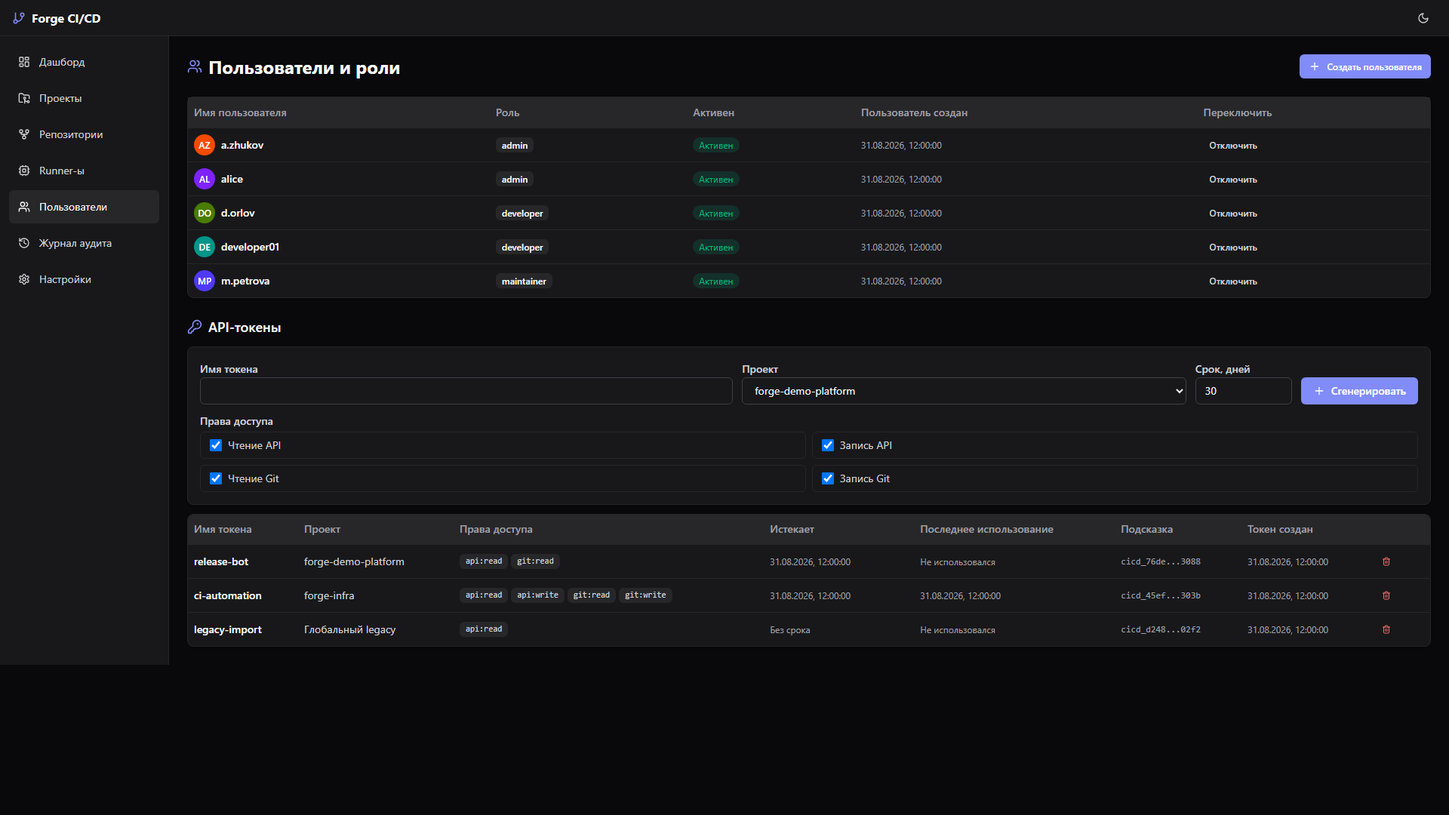
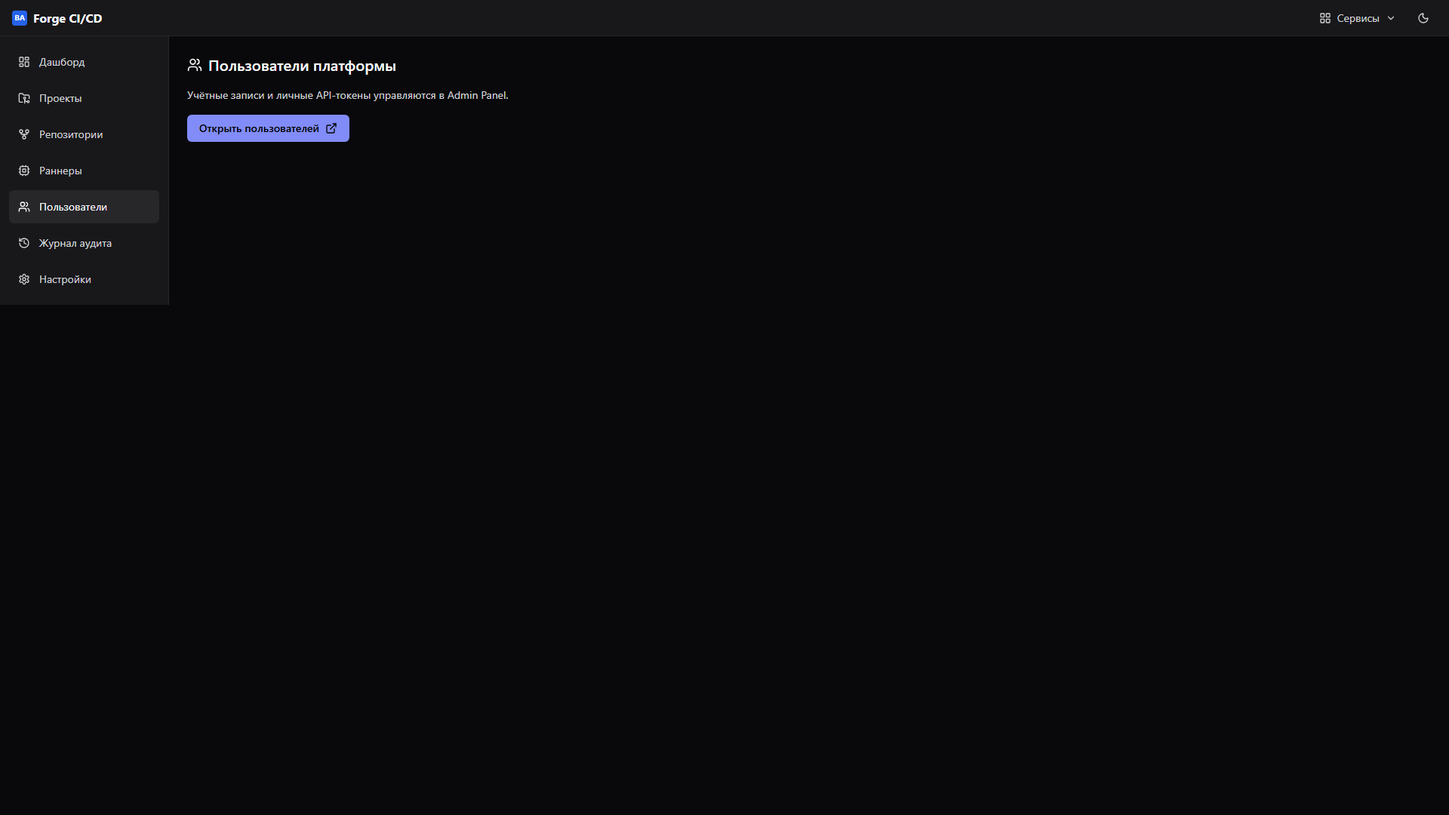
fix: align membership guidance with Central Auth UI

diff --git a/frontend/e2e/accessibility.spec.ts b/frontend/e2e/accessibility.spec.ts
@@ -68,7 +68,6 @@ test.describe('accessibility smoke', () => {
       { name: 'Settings', path: '/settings', ready: page => page.getByText('CICD_RUNNER_REGISTRATION_TOKEN').first(), shell: true },
       { name: 'Runners', path: '/runners', ready: page => page.getByRole('row', { name: /docker-runner-01/ }), shell: true },
       { name: 'Project secrets', path: `/projects/${evidence.project.id}/secrets`, ready: page => page.getByText('DEPLOY_TOKEN').first(), shell: true },
-      { name: 'Project members', path: `/projects/${evidence.project.id}/members`, ready: page => page.getByRole('row', { name: /a\.zhukov/ }), shell: true },
       { name: 'Artifacts', path: `/jobs/${evidence.job.id}/artifacts`, ready: page => page.getByText(expectedArtifactName).first(), shell: true },
       { name: 'Environments', path: `/projects/${evidence.project.id}/environments`, ready: page => page.getByText('staging').first(), shell: true },
       {
@@ -80,7 +79,7 @@ test.describe('accessibility smoke', () => {
       { name: 'Webhooks', path: `/projects/${evidence.project.id}/webhooks`, ready: page => page.getByRole('heading', { name: 'История доставок' }), shell: true },
       { name: 'Reports', path: `/projects/${evidence.project.id}/reports`, ready: page => page.getByText('Доля успехов').first(), shell: true },
       { name: 'Audit log', path: '/audit-log', ready: page => page.getByRole('heading', { name: /Журнал аудита|Audit log/ }), shell: true },
-      { name: 'Users', path: '/users', ready: page => page.getByRole('row', { name: /a\.zhukov/ }), shell: true },
+      { name: 'Users', path: '/users', ready: page => page.getByRole('heading', { name: 'Пользователи платформы' }), shell: true },
       { name: 'Login', path: '/login', ready: page => page.getByRole('heading', { name: 'Вход в Forge' }) },
     ]
 

diff --git a/frontend/src/api/hooks.ts b/frontend/src/api/hooks.ts
@@ -31,8 +31,6 @@ import type {
   Pipeline,
   PipelineDetail,
   Project,
-  ProjectMembership,
-  ProjectRole,
   ProjectReport,
   PullRequest,
   PullRequestAction,
@@ -400,7 +398,6 @@ const PLATFORM_KEYS = {
   auditLog: ['audit-log'] as const,
   users: ['users'] as const,
   tokens: ['api-tokens'] as const,
-  projectMemberships: (projectId: string) => ['project-memberships', projectId] as const,
 }
 
 function browserNotificationStreamEnabled(): boolean {
@@ -425,32 +422,6 @@ export function useDeleteRunner() {
   return useMutation({
     mutationFn: (id: string) => api<{ deleted: string }>(`/runners/${id}`, { method: 'DELETE' }),
     onSuccess: () => qc.invalidateQueries({ queryKey: PLATFORM_KEYS.runners }),
-  })
-}
-
-export function useProjectMemberships(projectId: string | undefined) {
-  return useQuery({
-    queryKey: PLATFORM_KEYS.projectMemberships(projectId ?? ''),
-    queryFn: () => api<ProjectMembership[]>(`/projects/${projectId}/memberships`),
-    enabled: Boolean(projectId),
-  })
-}
-
-export function useUpsertProjectMembership(projectId: string | undefined) {
-  const qc = useQueryClient()
-  return useMutation({
-    mutationFn: (input: { user_id: string; role: ProjectRole }) =>
-      api<ProjectMembership>(`/projects/${projectId}/memberships`, { method: 'POST', body: JSON.stringify(input) }),
-    onSuccess: () => qc.invalidateQueries({ queryKey: PLATFORM_KEYS.projectMemberships(projectId ?? '') }),
-  })
-}
-
-export function useDeleteProjectMembership(projectId: string | undefined) {
-  const qc = useQueryClient()
-  return useMutation({
-    mutationFn: (userId: string) =>
-      api<{ deleted: string; project_id: string }>(`/projects/${projectId}/memberships/${userId}`, { method: 'DELETE' }),
-    onSuccess: () => qc.invalidateQueries({ queryKey: PLATFORM_KEYS.projectMemberships(projectId ?? '') }),
   })
 }
 

diff --git a/frontend/src/app/router.test.tsx b/frontend/src/app/router.test.tsx
@@ -99,7 +99,6 @@ const routeCases = [
   { entry: '/settings', marker: 'CICD_RUNNER_REGISTRATION_TOKEN' },
   { entry: '/runners', marker: 'linux-runner-1' },
   { entry: `/projects/${projectId}/secrets`, marker: 'DEPLOY_TOKEN' },
-  { entry: `/projects/${projectId}/members`, marker: 'forge-api' },
   { entry: `/jobs/${jobId}/artifacts`, marker: 'app.tar.gz' },
   { entry: `/projects/${projectId}/environments`, marker: 'https://prod.example.com' },
   { entry: `/projects/${projectId}/schedules`, marker: '0 4 * * 1' },
@@ -122,6 +121,12 @@ describe('app router smoke', () => {
   it.each(routeCases)('renders $entry', async ({ entry, marker }) => {
     renderRoute(entry)
     await expectText(marker)
+  })
+
+  it('redirects an old project-members link to Projects', async () => {
+    const router = renderRoute(`/projects/${projectId}/members`)
+    await waitFor(() => expect(router.state.location.pathname).toBe('/projects'))
+    await expectText('forge-api')
   })
 })
 
@@ -146,6 +151,7 @@ function renderRoute(entry: string) {
       </ThemeProvider>
     </QueryClientProvider>,
   )
+  return router
 }
 
 function installLocalStorage() {

diff --git a/frontend/src/app/router.tsx b/frontend/src/app/router.tsx
@@ -51,6 +51,7 @@ export const appRoutes = [
       { path: '/settings', element: withSuspense(<SettingsPage />) },
       { path: '/runners', element: withSuspense(<RunnersPage />) },
       { path: '/projects/:projectId/secrets', element: withSuspense(<SecretsPage />) },
+      // Preserve old bookmarks; membership mutations are unavailable in Central Auth mode.
       { path: '/projects/:projectId/members', element: <Navigate to="/projects" replace /> },
       { path: '/jobs/:jobId/artifacts', element: withSuspense(<ArtifactsPage />) },
       { path: '/projects/:projectId/environments', element: withSuspense(<EnvironmentsPage />) },

diff --git a/frontend/src/api/types.ts b/frontend/src/api/types.ts
@@ -309,7 +309,6 @@ export interface AuditEvent {
 }
 
 export type UserRole = 'admin' | 'maintainer' | 'developer' | 'viewer'
-export type ProjectRole = 'maintainer' | 'developer' | 'viewer'
 
 export interface User {
   id: string
@@ -350,5 +349,3 @@ export interface CreateApiTokenInput {
   scopes?: string[]
   expires_in_days?: number
 }
-
-export type ProjectMembership = components['schemas']['ProjectMembership']

diff --git a/scripts/verify_docs.py b/scripts/verify_docs.py
@@ -592,9 +592,8 @@ def normalize_frontend_route(path: str) -> str:
     return re.sub(r":[A-Za-z_][A-Za-z0-9_]*", ":param", path.split("?", 1)[0])
 
 
-# Auth screens carry no product-surface evidence and are excluded from the
-# screenshot manifest by the desktop-only README evidence standard.
-MANIFEST_EXEMPT_ROUTES = {"/login", "/sso/callback", "/register"}
+# Auth screens and redirect-only legacy links have no distinct product surface.
+MANIFEST_EXEMPT_ROUTES = {"/login", "/sso/callback", "/register", "/projects/:param/members"}
 
 
 def frontend_route_paths() -> set[str]:

diff --git a/docs/USER_GUIDE.md b/docs/USER_GUIDE.md
@@ -20,23 +20,25 @@ Forge CI/CD - self-hosted control plane для Git-репозиториев и C
 | Секреты проекта | **Current verified** | AES-256-GCM at rest; embedded runner передаёт их в env и маскирует значения в stdout/stderr logs. |
 | Окружения и записи деплоев | **Current verified** | Метаданные окружения и история деплоев; выполнение деплоя определяется job. |
 | Отчёты и аудит | **Current verified** | Сводка по проекту и последние 200 событий аудита. |
-| Пользователи, участники проектов и API-токены | **Current verified MVP** | Хранение, argon2id credentials, session-bound access JWT, sessions, PAT enforcement и project memberships при `CICD_AUTH_SECRET`. |
+| Пользователи и личные токены | **Current verified** | В центральном режиме ими управляет Admin Panel; страница `/users` в CI/CD ведёт туда. Локальное управление участниками проекта в Dashboard недоступно. |
 | Расписания и outgoing webhooks | **Current verified MVP** | Worker запускает enabled schedules по строгому 5-польному UTC cron и доставляет terminal pipeline webhooks с basic retry. |
 | Уведомления (`in_app`/`sse`) | **Current verified MVP** | Каналы показывают terminal pipeline events в Dashboard history/stream. |
 | Email/Slack adapters и inbound provider webhooks | **Target approved** | Внешние уведомления и public provider webhook handlers ещё не исполняют доставку. |
-| Вход, сессии, RBAC | **Current verified conditional** | `/login` работает при непустом `CICD_AUTH_SECRET`; project-owned API проверяет active session, текущую роль и membership, без секрета API и Dashboard остаются trusted-network/open. |
+| Вход, сессии, RBAC | **Current verified** | Dashboard использует Central Auth SSO с PKCE; backend проверяет центральный токен при настроенном `CICD_AUTH__CENTRAL_JWKS_URI`. Локальный password login остаётся только в legacy API. |
 
-> **Безопасность:** для общего окружения задайте `CICD_AUTH_SECRET`, закройте API/Dashboard reverse proxy или сетью и не запускайте Git endpoint в trusted-local режиме без `CICD_AUTH_SECRET`/`CICD_GIT_TOKEN`; обязательно замените dev-значение `CICD_GIT_INTERNAL_TOKEN`.
+> **Безопасность:** для общего окружения настройте Central Auth/JWKS по [ENV](ENV.md), закройте API/Dashboard reverse proxy или сетью и не запускайте Git endpoint в trusted-local режиме; обязательно замените dev-значение `CICD_GIT_INTERNAL_TOKEN`.
 
 ![Дашборд](screenshots/02-dashboard.png)
 
 ## 2. Вход
 
-**Статус процедуры: Current verified conditional.**
+**Статус процедуры: Current verified.**
 
-1. Откройте `/login`.
-2. Если backend запущен с `CICD_AUTH_SECRET`, форма отправляет `POST /api/v1/auth/login`, держит access token в памяти, получает refresh session через HttpOnly cookie + CSRF companion cookie и переводит в Dashboard.
-3. Если `CICD_AUTH_SECRET` не задан или пустой, backend не требует principal, а UI не будет воспринимать `/login` как boundary доступа. Для shared-инстанса задайте секрет и закройте сервис reverse proxy/сетью.
+1. Откройте Dashboard. Если сессии нет, `/login` перенаправит в Central Auth.
+2. Войдите в центральную учётную запись. После Authorization Code + PKCE callback вернёт вас на исходную страницу CI/CD.
+3. Access token хранится только в памяти. После обновления страницы Dashboard повторно проходит SSO через центральную browser-сессию; локальной формы пароля и локального refresh cookie в текущем UI нет.
+
+Локальные `/api/v1/auth/login|refresh` остаются для legacy backend-режима, но при настроенном `CICD_AUTH__CENTRAL_JWKS_URI` они не используются и не открывают вход в Dashboard.
 
 
 ## 3. Создание проекта
@@ -74,18 +76,11 @@ curl -fsS -X POST http://127.0.0.1:22801/api/v1/projects \
 
 ### Участники проекта
 
-**Статус процедуры: Current verified MVP.**
+**Статус процедуры: в текущем Dashboard управление недоступно.**
 
-При включённом `CICD_AUTH_SECRET` список проектов фильтруется по `project_memberships`: `admin` видит всё, остальные пользователи видят только назначенные проекты. Эффективные права ограничены и глобальной ролью пользователя, и ролью в проекте.
+Ссылка `/projects/:projectId/members` перенаправляет на **Projects**; отдельной формы назначения участников в CI/CD нет. При настроенном `CICD_AUTH__CENTRAL_JWKS_URI` запись и удаление `project_memberships` через API возвращают `403`. Не используйте старую инструкцию по назначению `maintainer`, `developer` и `viewer` через Dashboard или CLI в центральном режиме. Для изменения доступа обратитесь к администратору платформы; backend-политика доступа описана в [API](API.md).
 
-1. Откройте **Projects** и выберите **Members** у нужного проекта.
-2. Назначьте пользователю роль `maintainer`, `developer` или `viewer`.
-3. Используйте `maintainer` для управления участниками и секретами проекта; `developer` — для запуска и изменения рабочих ресурсов; `viewer` — для чтения.
-4. Удаляйте ненужные memberships через список. Последнего maintainer удалить нельзя.
-
-Tenant isolation, service-account tokens, tenant-bound Git mapping и scoped Git credentials остаются **Target approved**; scoped PAT, session-bound access invalidation, browser refresh cookie + CSRF, refresh logout/revoke, session-family reuse revocation и Git Smart HTTP read/write checks по linked repository URL уже выполняются сервером.
-
-![Участники проекта](screenshots/40-project-members.png)
+В legacy backend-режиме без central JWKS endpoints memberships остаются доступными согласно его RBAC. Это не возвращает форму в текущий Dashboard.
 
 ## 4. Push в репозиторий и авто-триггер pipeline
 
@@ -320,38 +315,23 @@ Embedded runner inject-ит только объявленные `jobs.required_s
 
 ![Журнал аудита](screenshots/19-audit-log.png)
 
-## 11. Пользователи и API-токены
+## 11. Пользователи и личные токены
 
-### Пользователи и роли
+**Статус процедуры: Current verified для Central Auth.**
 
-**Статус процедуры: Current verified.**
+1. Откройте **Users** (`/users`) в CI/CD.
+2. Перейдите по кнопке **Открыть пользователей** в Admin Panel. Там управляются центральные учётные записи и личные API-токены.
+3. Вернитесь в CI/CD. При действующей центральной сессии повторный ввод пароля не требуется.
 
-1. Откройте **Users** (`/users`).
-2. Создайте пользователя с username, ролью `admin`, `maintainer`, `developer` или `viewer`; для интерактивного входа сразу укажите пароль.
-3. Включайте или отключайте пользователя через action в таблице; отключённый пользователь не проходит login/refresh/access-session checks.
-4. Роль ограничивает API только когда backend запущен с `CICD_AUTH_SECRET`; без него действует trusted-network режим.
+В режиме `CICD_AUTH__CENTRAL_JWKS_URI` страница `/users` только направляет в Admin Panel. Локальные `POST/PATCH /users`, endpoints локальных API-токенов и `POST/DELETE` memberships отвечают `403`; отдельной формы для этих операций в текущем Dashboard нет. Локальные пароли, refresh sessions и project-scoped PAT относятся к legacy backend-режиму без central JWKS, а не к этому пользовательскому сценарию.
 
-Пароли хранятся как `argon2id` credentials и не возвращаются через API. После перезагрузки Dashboard сначала пытается восстановить access session через HttpOnly refresh cookie + CSRF companion cookie и только затем отправляет пользователя на `/login`. Project membership, scoped PAT, session-bound access invalidation, browser refresh cookie + CSRF, refresh logout/revoke и session-family reuse revocation уже используются при включённом `CICD_AUTH_SECRET`; tenant boundary и service-account tokens относятся к **Target approved**.
-
-### API-токены
-
-**Статус процедуры: Current verified.**
-
-1. На странице **Users** создайте токен, укажите понятное имя, проект, срок действия и нужные scopes.
-2. Скопируйте значение немедленно в password manager или secret manager: API показывает полное значение только один раз.
-3. Для REST-клиентов выдавайте `api:read` и только при необходимости `api:write`; для Git clone/fetch нужен `git:read`, для push — `git:write`.
-4. В дальнейшем сверяйте только hint, project binding, scopes, expiry и last-used в списке токенов.
-5. Отзовите токен через UI или `DELETE /api/v1/api-tokens/{token_id}`, если владелец/интеграция больше не нуждается в нём.
-
-Токены хранятся как SHA-256 hash и проверяются как Bearer PAT только при включённом `CICD_AUTH_SECRET`. Новые PAT в auth-mode обязаны иметь `project_id`, scopes и expiry; старые записи без `project_id` остаются legacy global до отзыва. Pepper/HMAC storage, service-account tokens, rotation policy и tenant permissions - **Target approved**.
-
-![Пользователи и API-токены](screenshots/20-users.png)
+![Переход в Admin Panel](screenshots/20-users.png)
 
 ## 12. CLI-команды
 
 **Статус процедуры: Current verified.**
 
-CLI `cicd-cli` работает только через HTTP API и покрывает основные runtime и platform операции: projects, pipelines, jobs/logs/attempts, runners, secrets, artifacts, environments/deployments, schedules, webhooks/outbox, notifications, reports, audit, users, project members и API tokens. Соберите его из корня репозитория, если binary ещё отсутствует:
+CLI `cicd-cli` работает только через HTTP API и покрывает основные runtime и platform операции: projects, pipelines, jobs/logs/attempts, runners, secrets, artifacts, environments/deployments, schedules, webhooks/outbox, notifications, reports и audit. Команды локального управления users/members/API tokens относятся к legacy backend-режиму и возвращают `403` при центральной авторизации. Соберите CLI из корня репозитория, если binary ещё отсутствует:
 
 ```bash
 docker run --rm --entrypoint /bin/bash -v "$PWD/backend:/workspace" -w /workspace \
@@ -359,7 +339,7 @@ docker run --rm --entrypoint /bin/bash -v "$PWD/backend:/workspace" -w /workspac
   -lc '/usr/local/cargo/bin/cargo build -p cicd-cli'
 
 export CICD_API_URL=http://127.0.0.1:22801
-export CICD_API_TOKEN="$TOKEN"   # нужен только при включённом CICD_AUTH_SECRET
+export CICD_API_TOKEN="$TOKEN"   # bearer token для защищённого API
 export CICD_CLI="$PWD/backend/target/debug/cicd-cli"
 ```
 
@@ -385,7 +365,7 @@ export CICD_CLI="$PWD/backend/target/debug/cicd-cli"
 | Webhooks/outbox | `$CICD_CLI webhook create --project <PROJECT_UUID> --url https://example.com/hook --event pipeline.finished`; `$CICD_CLI outbox requeue --id <DELIVERY_UUID>` |
 | Notifications | `$CICD_CLI notification replace --project <PROJECT_UUID> --config in_app=dashboard`; `$CICD_CLI notification events --project <PROJECT_UUID> --limit 50` |
 | Reports/audit | `$CICD_CLI report summary --project <PROJECT_UUID>`; `$CICD_CLI audit list` |
-| Users/members/tokens | `$CICD_CLI user list`; `$CICD_CLI member upsert --project <PROJECT_UUID> --user <USER_UUID> --role developer`; `$CICD_CLI token create --name deploy-bot --user <USER_UUID> --project <PROJECT_UUID> --scope api:read --expires-in-days 30` |
+| Центральный каталог пользователей | `$CICD_CLI user list` с авторизованным bearer token; изменение пользователей, memberships и локальных токенов в центральном режиме недоступно |
 
 Глобальные флаги `--token`, `--timeout-seconds`, `--output json|table`, `--api-url` и env-переменные `CICD_API_TOKEN`, `CICD_TIMEOUT_SECONDS`, `CICD_OUTPUT`, `CICD_API_URL` описаны в [CLI](CLI.md). Real-API smoke gate для CLI уже входит в CI и покрывает protected API JWT/PAT auth-mode, RBAC denial и project-scoped read-only PAT; CLI profiles (`config.toml`), shell completion and NDJSON are current; OS keyring, YAML output, request tracing and extended token redaction fixtures remain **Target approved**.
 
@@ -445,7 +425,7 @@ curl -fsS -X POST "http://127.0.0.1:22801/api/v1/projects/$PROJECT_ID/pipelines"
 
 **Статус процедуры: Current verified.**
 
-Проверьте, задан ли непустой `CICD_AUTH_SECRET`. Без него API и Dashboard намеренно работают в trusted-network режиме; с ним JWT/scoped PAT, глобальные роли, project memberships и Git Smart HTTP read/write checks применяются middleware. Tenant isolation, service-account tokens и scoped Git credentials пока target, поэтому shared-доступ всё равно закрывайте reverse proxy/сетью.
+Для текущего Dashboard проверьте конфигурацию Central Auth/JWKS и действующую центральную сессию. При `CICD_AUTH__CENTRAL_JWKS_URI` локальные mutations users, memberships и API-токенов закрыты, поэтому их нельзя проверить старым локальным сценарием. `CICD_AUTH_SECRET` и локальные PAT относятся к legacy backend-режиму; shared-доступ всё равно закрывайте reverse proxy/сетью.
 
 ## Связанные документы
 

diff --git a/docs/assets/screens/manifest.md b/docs/assets/screens/manifest.md
@@ -2,7 +2,7 @@
 
 > Скриншоты сняты Playwright (Chromium) с живого стенда и deterministic seed (`frontend/scripts/seed-evidence.mjs`). Viewport: desktop 1920×1080; итоговая высота full-page PNG указана в таблице. Локаль ru, тема dark, DPR 1. Пересъёмка: `node frontend/scripts/shoot-evidence.mjs`.
 >
-> Исключение текущего прохода: `06-pipeline-detail.png`, `15-environments.png`, `16-schedules.png`, `20-users.png`, `21-artifacts.png`, `28-env-create.png`, `32-user-create.png`, `33-job-logs.png` и `41-env-approval-controls.png` пересняты через local Vite + мокированные API-ответы, потому что локальный Docker/API на машине недоступен или требовалась изолированная проверка изменённого UI; полный live evidence переснимается командой выше при доступном стенде.
+> Исключение текущего прохода: `06-pipeline-detail.png`, `15-environments.png`, `16-schedules.png`, `20-users.png`, `21-artifacts.png`, `28-env-create.png`, `33-job-logs.png` и `41-env-approval-controls.png` пересняты через local Vite с изолированным UI или мокированными API-ответами, потому что локальный Docker/API на машине недоступен или требовалась изолированная проверка изменённого UI; полный live evidence переснимается командой выше при доступном стенде.
 >
 > Номер `08` зарезервирован за удалённым статичным `/admin` screen. Отдельный `/admin` не входит в текущий baseline; системный срез находится в `/settings`.
 
@@ -27,9 +27,8 @@
 | [17-webhooks.png](../../screenshots/17-webhooks.png) | `/projects/:id/webhooks` | Webhooks + история доставок + уведомления | 1920×1255 |
 | [18-reports.png](../../screenshots/18-reports.png) | `/projects/:id/reports` | Отчёты | 1920×1080 |
 | [19-audit-log.png](../../screenshots/19-audit-log.png) | `/audit-log` | Журнал аудита | 1920×2361 |
-| [20-users.png](../../screenshots/20-users.png) | `/users` | Пользователи и API-токены | 1920×1080 |
+| [20-users.png](../../screenshots/20-users.png) | `/users` | Переход к управлению пользователями в Admin Panel | 1920×1080 |
 | [21-artifacts.png](../../screenshots/21-artifacts.png) | `/jobs/:jobId/artifacts` | Артефакты | 1920×1080 |
-| [40-project-members.png](../../screenshots/40-project-members.png) | `/projects/:id/members` | Участники проекта | 1920×1080 |
 
 ## Состояния действий (диалоги, формы, панели)
 
@@ -45,7 +44,6 @@
 | [29-schedule-create.png](../../screenshots/29-schedule-create.png) | Расписания → «Создать расписание» | Форма создания расписания | 1920×1080 |
 | [30-webhook-add.png](../../screenshots/30-webhook-add.png) | Webhooks → «Добавить webhook» | Форма добавления webhook | 1920×1080 |
 | [31-pr-create.png](../../screenshots/31-pr-create.png) | PR → «Создать pull-запрос» | Форма создания PR (ветки/заголовок/описание) | 1920×1612 |
-| [32-user-create.png](../../screenshots/32-user-create.png) | Пользователи → «Создать пользователя» | Форма создания пользователя | 1920×1080 |
 | [33-job-logs.png](../../screenshots/33-job-logs.png) | Пайплайн → «Логи» | Панель логов джоба с runner tags, secret names, artifact paths, выводом и поиском | 1920×1080 |
 | [34-pipeline-run-form.png](../../screenshots/34-pipeline-run-form.png) | Пайплайны → «Запустить пайплайн» | Форма запуска (git ref) | 1920×1080 |
 | [35-releases-list.png](../../screenshots/35-releases-list.png) | Репозиторий → «Релизы» | Список release metadata и Git tags | 1920×1080 |

diff --git a/README.md b/README.md
@@ -165,7 +165,7 @@ Configuration: [docs/ENV.md](docs/ENV.md). CLI: [docs/CLI.md](docs/CLI.md).
 
 ![Подтверждение удаления проекта](docs/screenshots/24-project-delete-confirm.png)
 
-Полный визуальный реестр (50 скриншотов, условия съёмки и известные mock-исключения): [docs/assets/screens/manifest.md](docs/assets/screens/manifest.md).
+Полный визуальный реестр (48 скриншотов, условия съёмки и известные mock-исключения): [docs/assets/screens/manifest.md](docs/assets/screens/manifest.md).
 
 ## Архитектура
 
